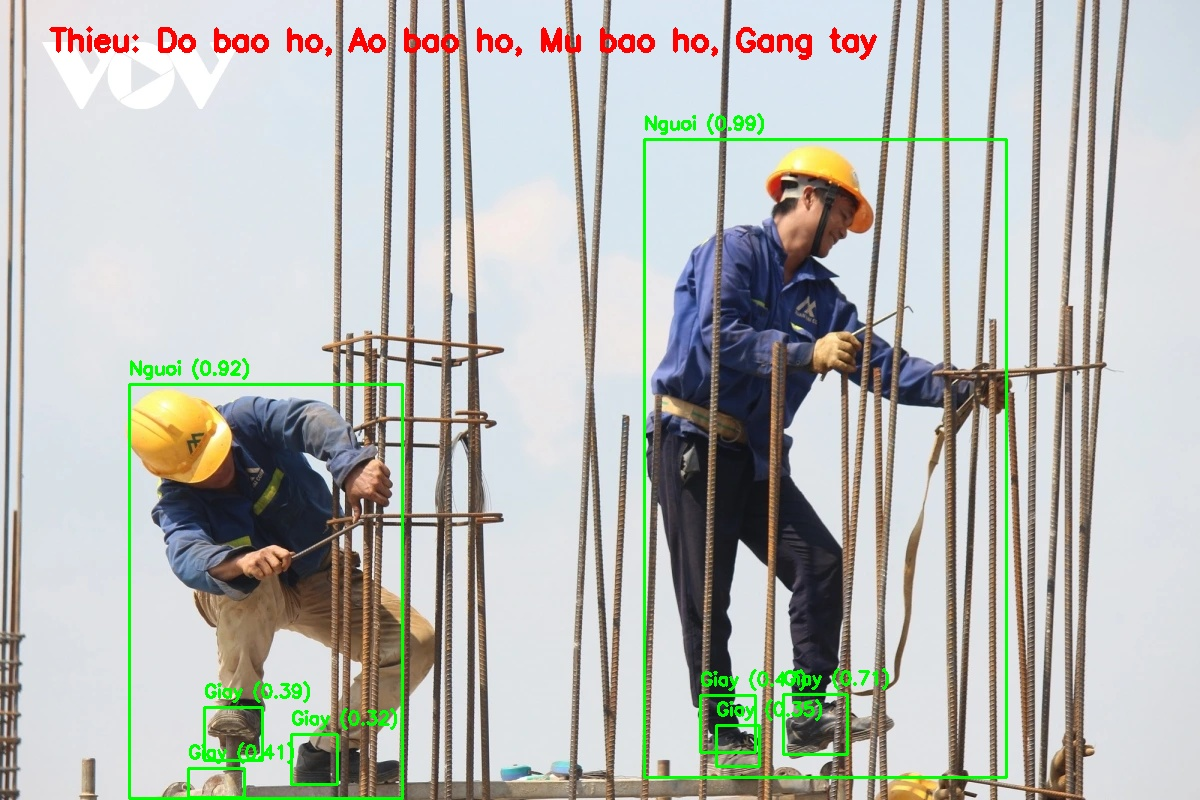
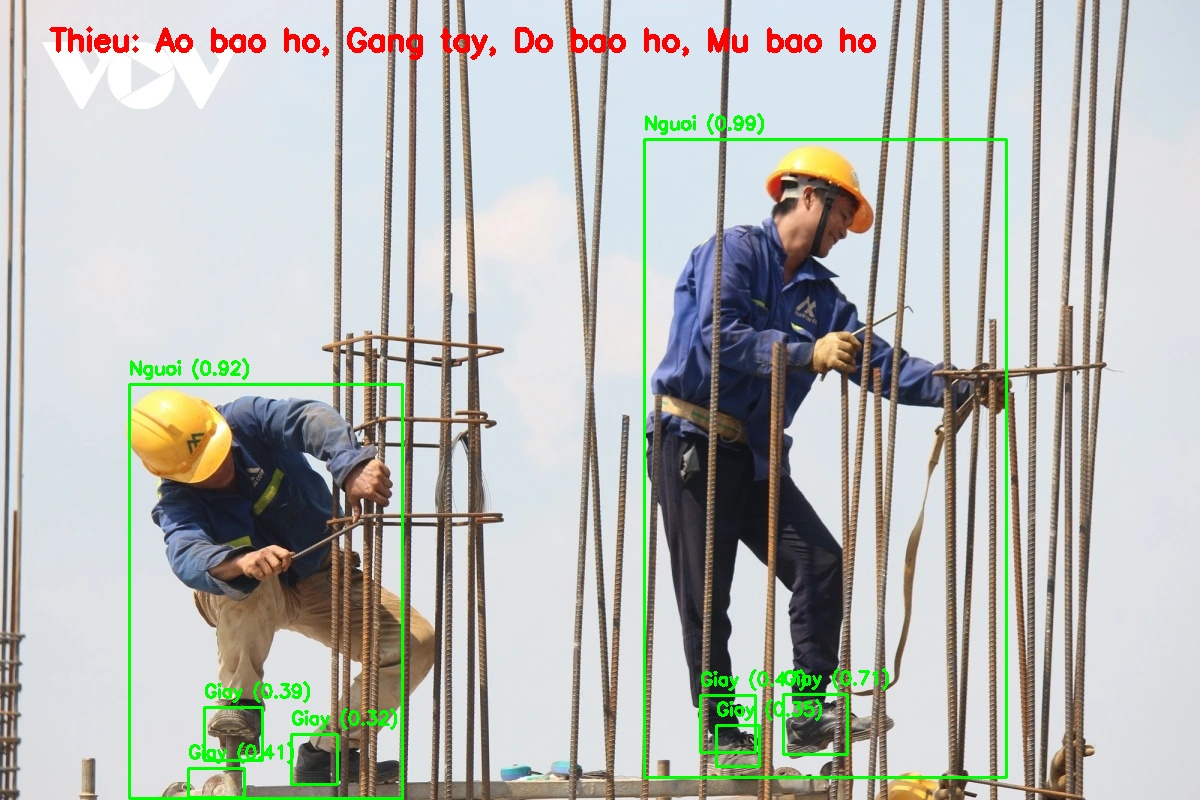
update video input

Changed region(s): [[0.1233, 0.0312, 0.74, 0.0938]]

diff --git a/main.py b/main.py
@@ -2,20 +2,24 @@ import cv2
 import torch
 import numpy as np
 from ultralytics import YOLO
+import os
 
-# Tải mô hình
+
+# Tai mo hinh YOLO
+# Kiem tra xem co su dung GPU duoc khong, neu khong thi dung CPU
 def load_model(model_path):
     try:
         model = YOLO(model_path)
         device = "cuda" if torch.cuda.is_available() else "cpu"
         model.to(device)
-        print(f"Mo hinh đa tai tren {device.upper()}")
+        print(f"Mo hinh da tai tren {device.upper()}")
         return model
     except Exception as e:
         print(f"Loi khi tai mo hinh: {e}")
         return None
 
-# Danh sách các class cần nhận diện (theo ID của mô hình)
+
+# Danh sach cac class can nhan dien
 SELECTED_CLASSES = {
     0: "Nguoi",
     1: "Tai",
@@ -36,31 +40,19 @@ SELECTED_CLASSES = {
     16: "Ao bao ho",
 }
 
-# Các vật dụng bảo hộ bắt buộc
-REQUIRED_PPE = {"Mu bao ho","Giay","Do bao ho", "Ao bao ho", "Gang tay"}
+# Cac vat dung bao ho bat buoc
+REQUIRED_PPE = {"Mu bao ho", "Giay", "Do bao ho", "Ao bao ho", "Gang tay"}
 
-# Hàm nhận diện trang bị bảo hộ lao động (PPE)
-def detect_ppe(model, image_path, output_path="output.jpg"):
-    image = cv2.imread(image_path)
 
-    if image is None:
-        print(f"Loi: Khong the đoc anh tu {image_path}")
-        return []
-
-    # Dự đoán với ngưỡng nhận diện thấp hơn để phát hiện nhiều hơn
-    results = model(image, conf=0.25, iou=0.35)[0]
-
-    # Kiểm tra xem có phát hiện nào không
-    if results.boxes is None or len(results.boxes) == 0:
-        print("Khong phat hien vat the nao trong anh!")
-        return []
-
+# Ham xu ly nhan dien vat dung bao ho
+def detect_ppe(model, frame):
+    results = model(frame, conf=0.25, iou=0.35)[0]
     bounding_boxes = []
     detected_classes = set()
 
     for box in results.boxes.data:
         if len(box) < 6:
-            continue  # Bỏ qua nếu box không hợp lệ
+            continue
 
         x1, y1, x2, y2, score, class_id = map(float, box)
         class_id = int(class_id)
@@ -75,31 +67,83 @@ def detect_ppe(model, image_path, output_path="output.jpg"):
                 "score": score,
                 "bbox": [int(x1), int(y1), int(x2), int(y2)]
             })
-            # Vẽ bounding box màu xanh lá cây
-            cv2.rectangle(image, (int(x1), int(y1)), (int(x2), int(y2)), (0, 255, 0), 2)
-            cv2.putText(image, label, (int(x1), int(y1) - 10), cv2.FONT_HERSHEY_SIMPLEX, 0.6, (0, 255, 0), 2)
 
-    # Kiểm tra thiếu đồ bảo hộ
+            # Ve khung chu nhat quanh vat the nhan dien duoc
+            cv2.rectangle(frame, (int(x1), int(y1)), (int(x2), int(y2)), (0, 255, 0), 2)
+            cv2.putText(frame, label, (int(x1), int(y1) - 10), cv2.FONT_HERSHEY_SIMPLEX, 0.6, (0, 255, 0), 2)
+
+    # Kiem tra thieu do bao ho
     missing_ppe = REQUIRED_PPE - detected_classes
     if missing_ppe:
         warning_text = f"Thieu: {', '.join(missing_ppe)}"
         print(f"CANH BAO: {warning_text}")
+        cv2.putText(frame, warning_text, (50, 50), cv2.FONT_HERSHEY_SIMPLEX, 1, (0, 0, 255), 3)
 
-        # Hiển thị cảnh báo trên ảnh với màu đỏ nổi bật
-        cv2.putText(image, warning_text, (50, 50), cv2.FONT_HERSHEY_SIMPLEX, 1, (0, 0, 255), 3)
+    return frame, bounding_boxes
 
-    # Lưu kết quả
-    cv2.imwrite(output_path, image)
-    print(f"Ket qua đa luu tai {output_path}")
 
-    return bounding_boxes
+# Ham xu ly nhan dien tu anh hoac video
+def process_input(model, input_path, output_path="output.jpg"):
+    if not os.path.exists(input_path):
+        print(f"Loi: Khong tim thay file {input_path}")
+        return
+
+    file_ext = input_path.split('.')[-1].lower()
+
+    if file_ext in ["jpg", "jpeg", "png"]:
+        print("Nhan dien anh...")
+        image = cv2.imread(input_path)
+        if image is None:
+            print("Loi: Khong the doc anh")
+            return
+        processed_image, _ = detect_ppe(model, image)
+        cv2.imwrite(output_path, processed_image)
+        print(f"Ket qua da luu tai {output_path}")
+
+    elif file_ext in ["mp4", "avi", "mov"]:
+        print("Nhan dien video...")
+        cap = cv2.VideoCapture(input_path)
+        if not cap.isOpened():
+            print("Loi: Khong the mo video")
+            return
+
+        output_video_path = "output.avi"
+        fourcc = cv2.VideoWriter_fourcc(*'XVID')
+        fps = int(cap.get(cv2.CAP_PROP_FPS))
+        width = int(cap.get(cv2.CAP_PROP_FRAME_WIDTH))
+        height = int(cap.get(cv2.CAP_PROP_FRAME_HEIGHT))
+        out = cv2.VideoWriter(output_video_path, fourcc, fps, (width, height))
+
+        paused = False
+        while cap.isOpened():
+            if not paused:
+                ret, frame = cap.read()
+                if not ret:
+                    break
+
+                processed_frame, _ = detect_ppe(model, frame)
+                out.write(processed_frame)
+                cv2.imshow("Video Processing", processed_frame)
+
+            key = cv2.waitKey(1) & 0xFF
+            if key == ord('q'):
+                break
+            elif key == ord(' '):  # Dung hoac tiep tuc video khi nhan Space
+                paused = not paused
+
+        cap.release()
+        out.release()
+        cv2.destroyAllWindows()
+        print(f"Ket qua video da luu tai {output_video_path}")
+
+    else:
+        print("Dinh dang file khong duoc ho tro")
+
 
 if __name__ == "__main__":
-    model_path = "best.pt"  # Đường dẫn đến mô hình YOLO
-    image_path = "img_1.png"  # Thay bằng ảnh cần kiểm tra
+    model_path = "best.pt"
+    input_path = "img_1.png"  # Thay bang duong dan file anh hoac video
 
     model = load_model(model_path)
-
     if model:
-        detected_boxes = detect_ppe(model, image_path)
-        print("Ket qua nhan dien:", detected_boxes)
+        process_input(model, input_path)
